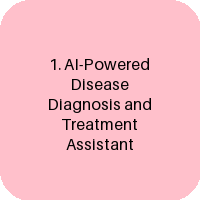
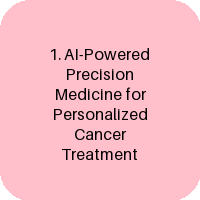
Update C++ learning topics in README

Changed region(s): [[0.24, 0.24, 0.78, 0.81]]

diff --git a/README.md b/README.md
@@ -15,8 +15,8 @@
 
 ### Project Ideas (AI generated; updates automatically everyday)
 <!--C++_TOPICS-->
-- 1. AI-Powered Disease Diagnosis and Treatment Assistant
-- 2. Personalized Medicine through Machine Learning and Predictive Analytics
+- 1. AI-Powered Precision Medicine for Personalized Cancer Treatment
+- 2. Deep Learning for Early Diagnosis and Prognosis of Rare Diseases
 <!--END_C++_TOPICS-->
 
 
